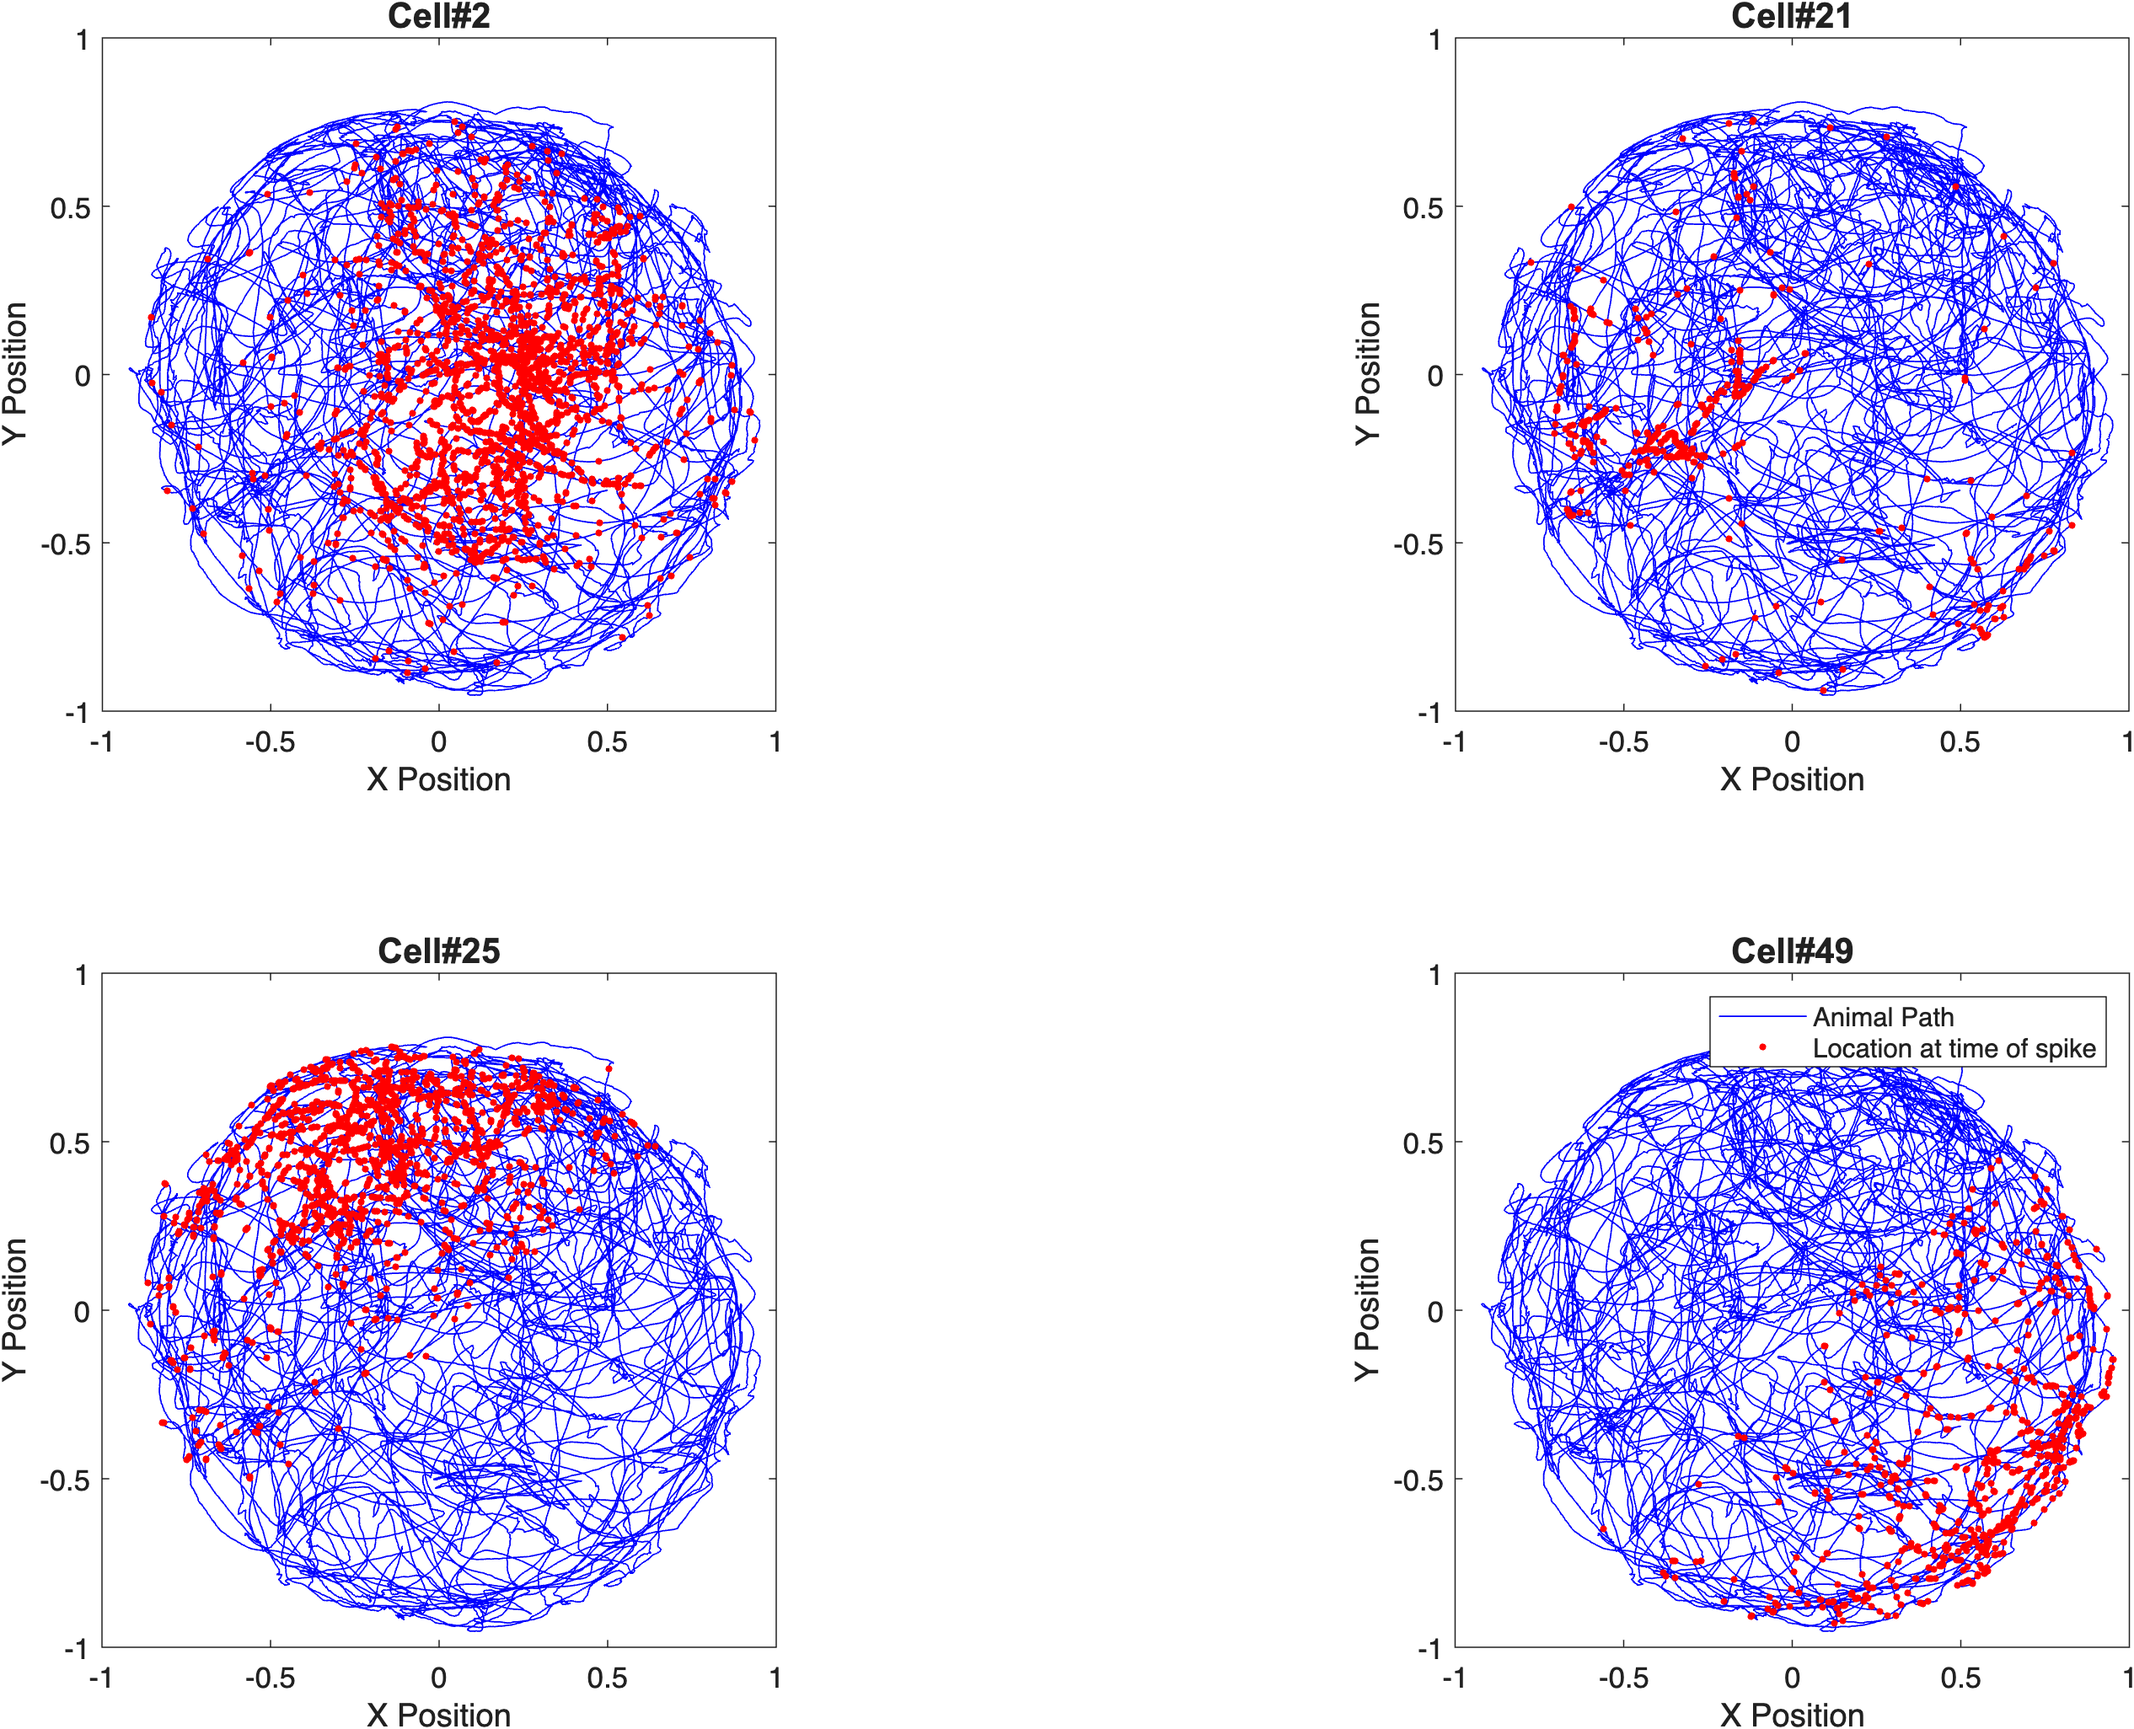
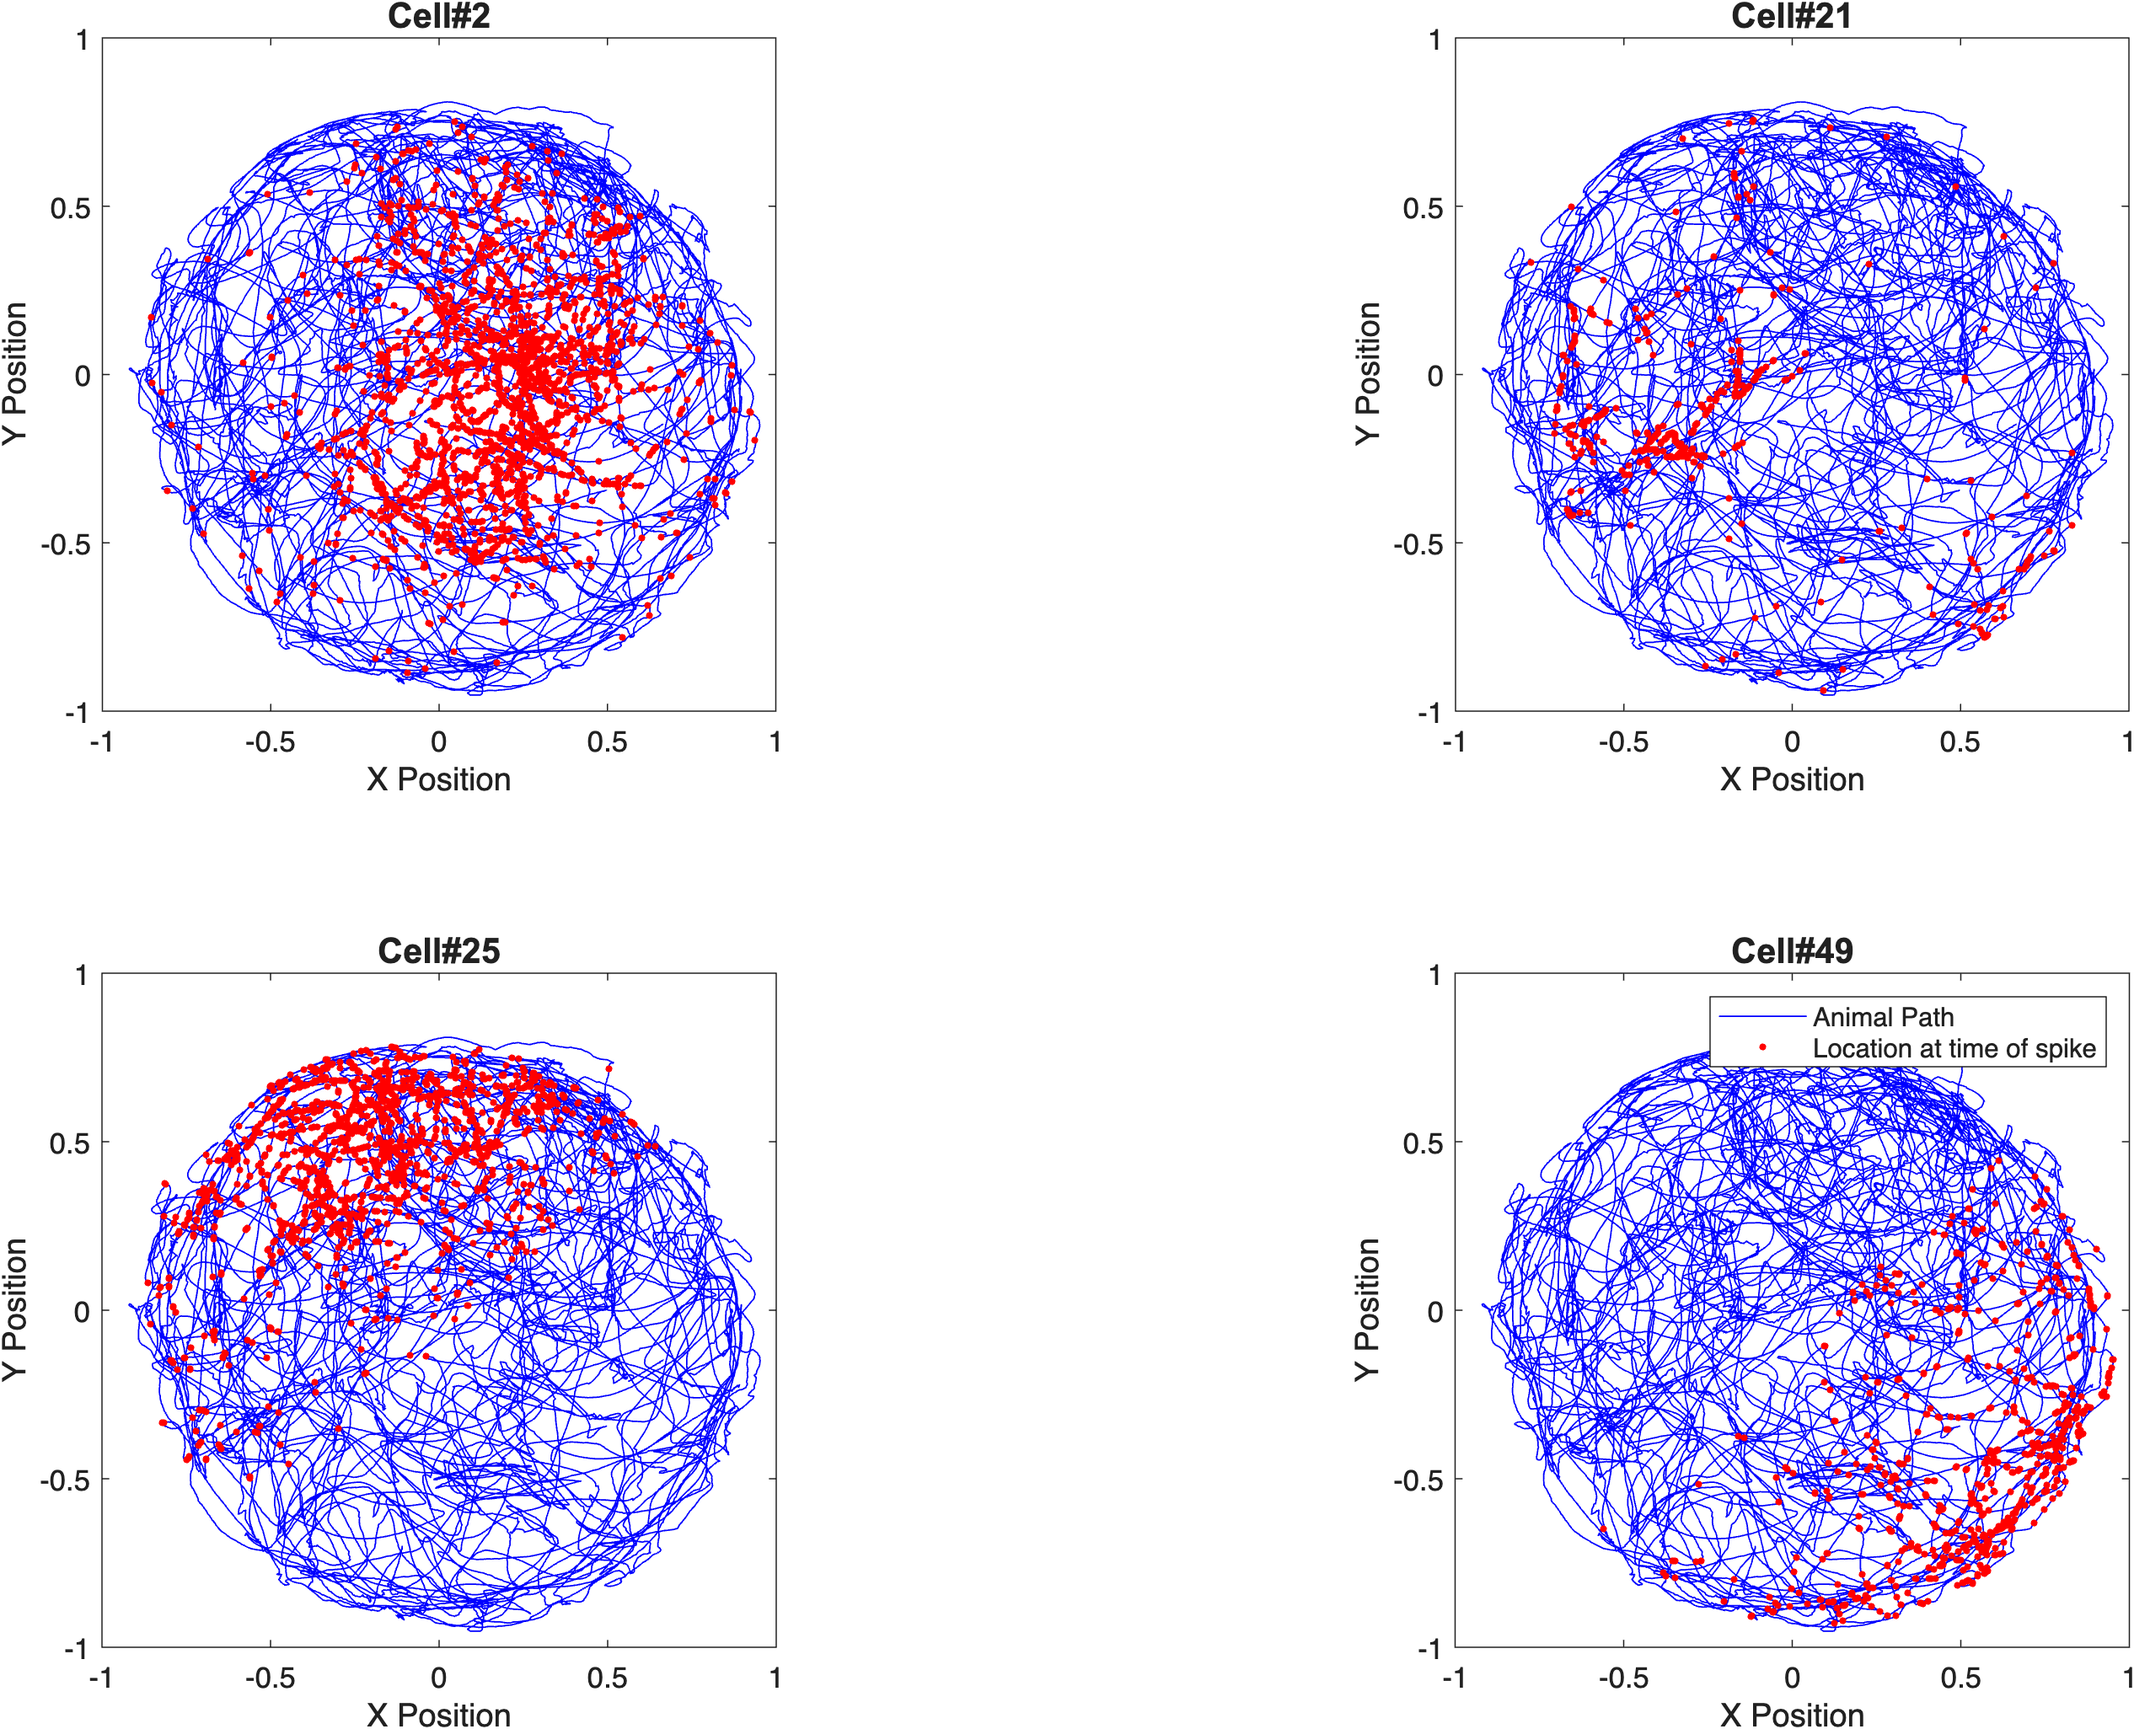
release(v1.5.1): stamp version + paper-figure regen under R2026a
Contents.m, docs/figures/manifest.json, RELEASE_NOTES.md stamped to
v1.5.1 / 22-Jun-2026. 25 docs/figures/exampleNN/*.png regenerated via
build_paper_examples under R2026a (the R2025b-committed PNGs were
within rendering noise of the regen; check_readme_figures now reports
21 IDENTICAL + 3 NONDETERMINISTIC, 0 SUBSTANTIVE).

Also fixes a latent bug in stamp_release.m: the regex `^% Version[^\n]*`
anchored to start-of-STRING (default MATLAB regex semantics), not
start-of-LINE, so the substitution silently no-op'd on Contents.m
(whose line 1 is `% nSTAT - Neural Spike Train Analysis Toolbox`, not
`% Version`). Added `(?m)` inline modifier for proper multiline match.
The "Contents.m line 2 did not match expected pattern; skipped"
warning never fired because the regex didn't fail -- it just didn't
match anything to replace. Pre-fix v1.5.0 release likely shipped with
a stale Contents.m line 2 date.

Release notes for v1.5.1 catalog:
  Correctness fixes: PRs #87, #94, #97, #100, #106, #109, #112
  New capabilities: tools/smoke_helpfile.m, tools/check_helpfile_drift.m,
                    validateNoBlankFigures in publish_all_helpfiles.m,
                    predeploy.sh --skip-publish removed
  MATLAB toolchain: default R2025b -> R2026a (PR #108)
  Documentation:    CONTRIBUTING.md mlx-shadow + artifact-verify subs
  Breaking changes: CIF intercept must be 'one', not '1' (PR #94)

diff --git a/tools/stamp_release.m b/tools/stamp_release.m
@@ -56,7 +56,13 @@ repoRoot = fileparts(fileparts(mfilename('fullpath')));
 contentsPath = fullfile(repoRoot, 'Contents.m');
 contentsText = fileread(contentsPath);
 newContentsLine = sprintf('%% Version %s %s', contentsVersion, dateStr);
-contentsNew = regexprep(contentsText, '^% Version[^\n]*', newContentsLine, 'once');
+% FIX: MATLAB's regexprep `^` anchors to start-of-STRING by default; the
+% `% Version` line is line 2 of Contents.m, not line 1. The `(?m)` inline
+% modifier enables multi-line mode so `^` matches start-of-line, which
+% is what was intended. Without this the substitution silently no-ops
+% and the warning below never fires either (the regex doesn't fail; it
+% just doesn't match anything to replace).
+contentsNew = regexprep(contentsText, '(?m)^% Version[^\n]*', newContentsLine, 'once');
 if strcmp(contentsText, contentsNew)
     warning('nstat:stamp_release:ContentsUnchanged', ...
         'Contents.m line 2 did not match expected pattern; skipped.');

diff --git a/Contents.m b/Contents.m
@@ -1,5 +1,5 @@
 % nSTAT - Neural Spike Train Analysis Toolbox
-% Version 1.5 13-Jun-2026
+% Version 1.5 22-Jun-2026
 %
 % nSTAT implements point process generalized linear models and related
 % algorithms for neural spike train data analysis. See README.md for

diff --git a/RELEASE_NOTES.md b/RELEASE_NOTES.md
@@ -1,5 +1,55 @@
 # nSTAT Release Notes
 
+## v1.5.1 — 22-Jun-2026
+
+Patch release. Bug fixes from the 2026-06-19 parity-audit ledger, the helpfile-rendering pipeline rebuild, the MATLAB R2025b→R2026a switch, and a `checkcode`-surfaced sweep of `+nstat/+decoding/`. End users on v1.5.0 should upgrade; behavior change is limited to specific edge cases documented below.
+
+### Correctness fixes
+
+| PR | Class | Site | Effect |
+|---|---|---|---|
+| #87 | numerical | `Analysis.m` KS rescaling | `1 - exp(-Z)` → `-expm1(-Z)`. Catastrophic-cancellation fix for KS statistics at small `λ·dt` (sub-Hz firing with ms bins). Math-equivalent for the parity-baseline regime; tightens precision in the sub-Hz tail. |
+| #87 | plotting | `Events.m` label x-coord | Event labels now anchor to event time in data coordinates with `HorizontalAlignment='center'` instead of axes-fraction nudge that drifted on tight `xlim`. |
+| #94 | API | `CIF` constructor | `Xnames` entries must be valid MATLAB identifiers. `Xnames={'1',...}` now errors clearly at construction (`CIF:InvalidXname`) instead of failing opaquely in `sym()` downstream. Migrate intercepts to `'one'`. |
+| #94 | API | `SignalObj.autocorrelation` / `.crosscorrelation` | `crosscorr(x,y,n-1)` → `crosscorr(x,y,'NumLags',n-1)`. Required for R2023b+ Econometrics Toolbox. |
+| #97 | typo | `PPLFP_EStep` binomial branch | `HkPerm = HkPerm(:,:,k)` self-clobber → `Hk = HkPerm(:,:,k)`. Binomial-fitType log-likelihood accumulator was effectively dead code; now exercised correctly. |
+| #100 | API | 6 sites in `+nstat/+decoding/PPLFP.m` and `+nstat/+decoding/PointProcessEM.m` | `matlabpool('size')` → `gcp('nocreate')` idiom. Required for R2017a+ MATLAB. Tripwire test prevents reintroduction. |
+| #100 | logic | `PPLFP_EM` windowTimes guard | Scalar `gamma=0` no longer misinterpreted as "1-window history". Closed PPLFP_EM matmul-mismatch on the no-history fast path. |
+| #106 | doc | `helpfiles/DecodingExample.m` orphan `figure;` | Removed bare `figure;` before `results{1}.plotResults` that produced a blank `_03.png` snapshot. |
+| #109 | doc | `FitResult.plotCoeffs` + 3× `FitResSummary` | Replaced third-party `xticklabel_rotate` with the R2014b+ built-in `xtickangle`. GLM coefficient labels render cleanly under `publish()` instead of overlapping vertical scribbles. |
+| #112 | logic | `PointProcessEM.m:268` | Missing `=` in binomial Hessian update was discarding the computation. Standard-error estimates for binomial `PointProcessEM` fits are now correct (filter convergence and KS were always unaffected). |
+| #112 | guard | `PointProcessEM.m:1111` | Replaced bare `time;` in the Ikeda-acceleration `gammahat~=0` branch (which silently fell through to stale data) with a clear `IkedaHistNotImplemented` error. |
+
+### New capabilities
+
+- **`tools/smoke_helpfile.m`** — publishes one helpfile in a staged sandbox, reports figure count + sizes + blank suspects + delta vs HEAD baseline. Strips `.mlx` siblings to avoid the shadow-execution trap (CONTRIBUTING.md). Forces `defaultFigureVisible='on'` (the silent figure-capture-suppression bug we diagnosed in PR #107).
+- **`tools/check_helpfile_drift.m`** — pixel-diff two helpfile directories. Default compares current `helpfiles/` against HEAD-staged temp; pass `'Other'` to compare against an older worktree. Verdict classes mirror `check_readme_figures.m`.
+- **`helpfiles/publish_all_helpfiles.m`** — new `validateNoBlankFigures` step errors with `nSTAT:BlankFigureArtifact` when any `Foo_NN.png` figure snapshot drops below `BlankPngThresholdBytes` (default 5000 B). Catches the orphan-`figure;`-before-`plotResults` antipattern (PR #106).
+- **`tools/predeploy.sh`** — `--skip-publish` escape hatch removed. The publish step is the only gate that catches blank-figure / partial-render regressions; allowing skip is how earlier regressions landed.
+
+### MATLAB toolchain
+
+- **Default switched from R2025b to R2026a** (MATLAB 26.1). `tools/predeploy.sh`, `tools/run_unit_tests.sh`, `tools/check_readme_figures.sh`, `helpfiles/publish_all_helpfiles.m` (ExpectedGenerator), `info.xml`, and several doc pointers updated.
+
+### Documentation
+
+- **CONTRIBUTING.md** — two new subsections:
+  - **Smoke-testing an edited helpfile `.m`** documents the `.mlx`-shadows-`.m` trap (a smoke test using `run('Foo')` silently executes the stale `.mlx` against assertions, not the freshly-edited `.m`). Recommends `tools/smoke_helpfile.m` as the safe entry point with two ad-hoc fallback patterns.
+  - **Verifying regenerated `.mlx` / `.html` / PNG artifacts before commit** encodes the lesson from the PR #105 rollback: regenerated rendered docs can silently degrade vs the committed baseline. Three pre-commit checks documented.
+- **`tools/check_helpfile_drift.m`** integration with the verification workflow.
+
+### Breaking changes
+
+- **CIF intercept symbol must be `'one'`, not `'1'`** (PR #94). Helpfiles and tests already updated. External callers passing `Xnames={'1', ...}` will get a clear `CIF:InvalidXname` error at construction. Migrate to `Xnames={'one', ...}`.
+
+### Out of scope (deferred to v1.6 or later)
+
+- Re-attempting the pedagogical figure additions from PRs #88/#89 that were rolled back in PR #105. The pipeline is now stable enough to try again, but each requires careful artifact verification.
+- `checkcode` style/perf cleanup (275 `AGROW`, 124 `NASGU`, etc.). Not bug-class; out of scope for a patch release.
+- Closed without fix: issue #110 (PPAF+History decoded-peak drift). Bisect showed no numerical regression; the visual estimate was an artifact of headless rendering at 1278×770 vs 1882×1026.
+
+---
+
 ## v1.5.0 — 2026-06-13
 
 Minor release. **No code changes**; the version bump reflects the addition of a new install path. Existing users upgrading from v1.4.1 by `git pull` see no behavior change.
